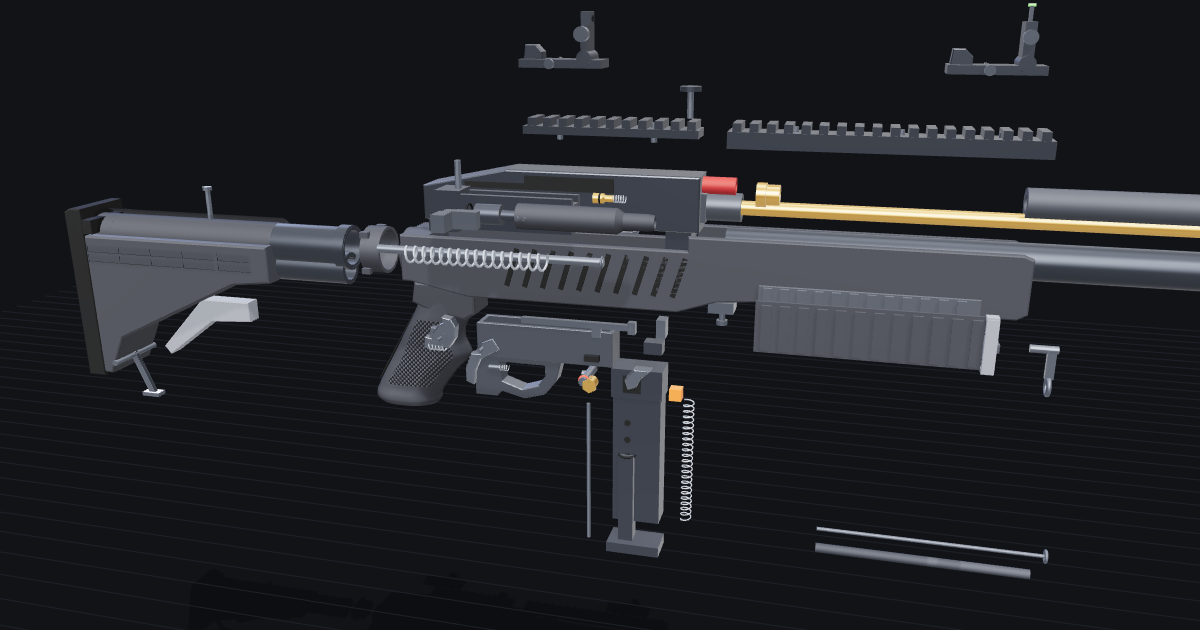
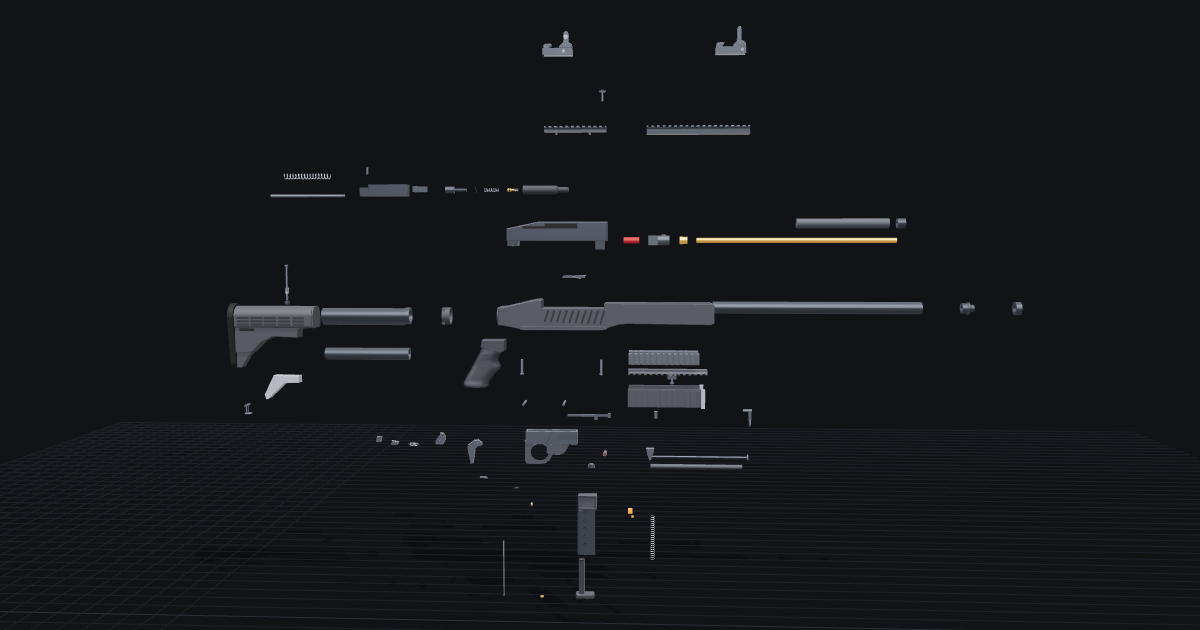
kc02: staged field-strip explode, trigger slider, planned layout
The explode slider now follows the Ruger 10/22 field strip: mag out, rear
stock off the tube, tube and end plate unscrewed, grip off, receiver screws
out, barrelled action lifted from the stock, then the trigger group, bolt
group and barrel come out before each group spreads into its parts.

The bolt train now lays out in one row above the receiver, the bore parts in
a row beside it, and the rails and sights in rows above that. A trigger
slider fires one shot: trigger, hammer, valve knocker, bolt blowback with the
cylinder lagging, recoil spring compression and the hammer recocking.

diff --git a/kc02/index.html b/kc02/index.html
@@ -138,6 +138,8 @@
   <label><span>Auto-rotate</span><input id="spin" type="checkbox"></label>
   <label>Stock position <span id="spv">1</span></label>
   <input id="stockpos" type="range" min="1" max="5" step="1" value="1">
+  <label>Trigger <span id="tpv">released</span></label>
+  <input id="trigpos" type="range" min="0" max="1" step="0.01" value="0">
   <label><span>Orthographic (O)</span><input id="ortho" type="checkbox"></label>
   <div class="row">
     <button id="bReset">Reset view</button>
@@ -600,11 +602,11 @@ part('railGuard', 'Rail guards + springs', 'sgt', ['102', '101'], [0, -150, 0],
    ...[1, -1].flatMap(sd => [[bx(219, 226, -27, 5, -2, 2).translate(0, 0, sd * (STOCK_Z + 2.5 + 10.5)), 'lever'],
      [bx(219, 226, 3, 6, -3.5, 3.5).translate(0, 0, sd * (STOCK_Z + 2.5 + 8)), 'lever'], [bx(219, 226, -28, -25, -3.5, 3.5).translate(0, 0, sd * (STOCK_Z + 2.5 + 8)), 'lever']])]);
 
-part('rail1', 'Rail 1 + screws', 'sgt', ['4', '5'], [70, 250, 0],
+part('rail1', 'Rail 1 + screws', 'sgt', ['4', '5'], [70, 300, 0],
   'Front top rail, screwed to the top of the outer barrel with three rail 1 screws #5. Carries the front sight.',
   [[picatinny(RAIL1.x0, RAIL1.x1, 'up', RAIL1.off, { riser: 5.7, riserW: 10.5 }), 'alu'], ...[90, 150, 205].map(x => [cyl(2, 12, 'y', x, 13, 0, 12), 'steel'])]);
 
-part('rail2', 'Rail 2 + screws', 'sgt', ['20', '19'], [0, 250, 0],
+part('rail2', 'Rail 2 + screws', 'sgt', ['20', '19'], [0, 300, 0],
   'Rear top rail on the receiver, fixed with rail 2 screws #19. The hop-up (trajectory) adjust dial sits in its front end. Scope mounts here.',
   [[picatinny(RAIL2.x0, RAIL2.x1, 'up', RAIL2.off, { riser: 0.7, riserW: 10.5 }), 'alu'], ...[-40, 20].map(x => [cyl(2, 12, 'y', x, 13, 0, 12), 'steel'])]);
 
@@ -653,15 +655,15 @@ function flipSight(kind, rail, xa, xb, xh) {
   return out;
 }
 
-part('frontSight', 'Front sight assembly', 'sgt', ['160', '161', '162', '163', '164', '165', '166', '168', '169', '170', '171', '172', '173', '174', '175'], [70, 390, 0],
+part('frontSight', 'Front sight assembly', 'sgt', ['160', '161', '162', '163', '164', '165', '166', '168', '169', '170', '171', '172', '173', '174', '175'], [70, 430, 0],
   'Flip-up front sight in the MBUS pattern. Base #160 clamps to rail 1 with socket head screw #170 and nut #171 in a recoil groove. Upright #162 swings on pin #174 with torsion spring #161; fixer latch #172 on pin #175 with spring #173 holds it down when folded. Post #168 carries a fiber optic #169 and screws through elevation dial #166, held by detent #163 to #165. Manual: turn the dial to raise the post when impact is high, lower it when impact is low.',
   flipSight('front', RAIL1, 171, 223, 212));
 
-part('rearSight', 'Rear sight assembly', 'sgt', ['176', '177', '178', '179', '180', '181', '182', '183', '184', '185'], [0, 390, 0],
+part('rearSight', 'Rear sight assembly', 'sgt', ['176', '177', '178', '179', '180', '181', '182', '183', '184', '185'], [0, 430, 0],
   'Flip-up rear aperture in the MBUS pattern. Base #176 clamps to rail 2 with socket head screw #170 and nut #171. Upright #178 swings on pin #185 with torsion spring #177. Aperture #179 rides on windage adjust screw #180 (knob on the right), held by sleeve #181 and E-ring #182, with detent #183/#184. Fixer latch #172/#173 at the back. Manual: turn the screw anticlockwise when impact is right, clockwise when impact is left.',
   flipSight('rear', RAIL2, -63, -11, -22));
 
-part('hopDial', 'Trajectory adjust dial + detent', 'sgt', ['18', '21', '22'], [0, 330, 0],
+part('hopDial', 'Trajectory adjust dial + detent', 'sgt', ['18', '21', '22'], [0, 360, 0],
   'Hop-up adjuster, called the trajectory adjust dial in the manual. Sits in the front of rail 2 with a detent #21 and spring #22: 36 clicks per turn, about 20 microns per click (Rogueworx). Manual: rotating it moves the impact point up or down. Forum reports say the stock hop arm can be too short to reach the bucking.',
   [[cyl(6.5, 3, 'y', 42, 23.5, 0, 24), 'dark'], [cyl(2, 16, 'y', 42, 14, 0, 12), 'steel']]);
 
@@ -672,12 +674,12 @@ part('receiver', 'Receiver', 'rcv', ['26'], [0, 140, 0],
    [bx(-60, -2, 1, 10, 12.5, 13.3), 'black'], [bx(-100, -60, 1, 5, 12.5, 13.3), 'black'],
    [bx(30, 46, -36, -20, -9, 9), 'dark'], [bx(-128, -108, -30, -20, -9, 9), 'dark'], [cyl(5, 20, 'z', -118, -26, 0, 16), 'dark']], { shell: true });
 
-part('rcvScrews', 'Receiver screws + spring washers', 'rcv', ['23', '32', '136'], [0, 60, -180],
+part('rcvScrews', 'Receiver screws + spring washers', 'rcv', ['23', '32', '136'], [0, -80, 0],
   'Receiver screw (rear) #23 and (front) #32 with spring washers #136 fix the receiver into the front stock from below.',
   [[cyl(2.2, 26, 'y', -104, -28, 0, 12), 'steel'], [cyl(3.5, 2, 'y', -104, -42, 0, 16), 'steel'],
    [cyl(2.2, 26, 'y', 40, -28, 0, 12), 'steel'], [cyl(3.5, 2, 'y', 40, -42, 0, 16), 'steel']]);
 
-part('crossPins', 'Receiver cross pins', 'rcv', ['27', '29'], [0, -40, -200],
+part('crossPins', 'Receiver cross pins', 'rcv', ['27', '29'], [0, -135, 60],
   'Two cross pins hold the trigger guard assembly in the receiver. Push both out to drop the trigger group.',
   [[cyl(2, 2 * STOCK_Z + 6, 'z', -22, -30, 0), 'steel'], [cyl(2, 2 * STOCK_Z + 6, 'z', -92, -30, 0), 'steel']]);
 
@@ -690,45 +692,45 @@ part('barrelRetainer', 'Barrel retainer + screw', 'bar', ['25', '24'], [130, -11
   'Barrel retainer (Ruger V-block style) and screw. Booligan: the factory screws are short and strip, swap in longer ones.',
   [[bx(30, 46, -19, -12, -9, 9), 'steel'], [cyl(2, 14, 'y', 38, -19, 0, 12), 'steel'], [cyl(3.6, 3, 'y', 38, -27, 0, 16), 'steel']]);
 
-part('bolt', 'Bolt', 'rcv', ['46'], [0, 110, 200],
+part('bolt', 'Bolt', 'rcv', ['46'], [-290, 210, 0],
   'Reciprocating bolt carrier, about 80g stock (Rogueworx). Holds the piston (#44, fixed by piston pin #45) and rides on the guide rod. A cam on its underside releases the hammer lock, timed to the carrier length. Aftermarket: Rogueworx V14 aluminium (40g) and stainless (120g), RGW aluminium.',
   [[bx(-104, -18, -11, -3, -9.5, 9.5), 'dark'], [bx(-88, -18, -3, 10, 5.5, 9.5), 'dark'], [bx(-88, -18, -3, 10, -9.5, -5.5), 'dark'],
    [bx(-104, -88, -3, 4.5, -9.5, 9.5), 'dark'], [bx(-30, -18, -3, 6, -5.5, 5.5), 'dark']]);
 
-part('boltPin', 'Bolt pin', 'rcv', ['47'], [0, 190, 200],
+part('boltPin', 'Bolt pin', 'rcv', ['47'], [-290, 245, 0],
   'Pin through the bolt. Evike sells it as part #47 (P-GR-6802-47).',
   [[cyl(2, 12, 'y', -92, 0, 0, 12), 'steel']]);
 
-part('boltHandle', 'Bolt handle', 'rcv', ['33'], [0, 110, 330],
+part('boltHandle', 'Bolt handle', 'rcv', ['33'], [-250, 205, 30],
   'Charging handle on the right. Manual: pull the handle back to load. It reciprocates with every shot. Known weak point: stock handles snap at the neck (Rogueworx Talon is made to fix this).',
   [[bx(-30, -18, 0, 7, 9.5, 20), 'steel'], [bx(-32, -12, -1, 9, 20, 26), 'steel'], [bx(-34, -26, -1, 9, 26, 38), 'steel']]);
 
-part('cylinder', 'Cylinder (loading nozzle) + pin', 'rcv', ['37', '38'], [80, 110, 270],
+part('cylinder', 'Cylinder (loading nozzle) + pin', 'rcv', ['37', '38'], [-34, 210, 0],
   'Floating cylinder (the loading nozzle), plastic on the stock gun. Its rear bore slides over the piston head (the 10.5mm O-ring spec puts the bore near 13.5mm), the front is the loading tube, with cylinder pin #38 retaining the return spring. Pushes a BB into the rubber chamber and seals gas behind it. Stock cylinders are known to crack; the Rogueworx Genesis kit replaces it with a 7075 aluminium cylinder-nozzle. Evike lists the OEM part as Noz-KJW-P-GR-6802-37.',
   [[latheX([[6.4, -66], [7.6, -66], [7.6, -6], [5, -2], [5, 12], [4.4, 16], [3.2, 16], [3.2, -8], [6.4, -8], [6.4, -66]], 32), 'poly'],
    [cyl(1.2, 18, 'z', -60, 0, 0, 8), 'steel']]);
 
-part('cylValve', 'Cylinder valve + spring, O-ring', 'rcv', ['40', '39', '41'], [60, 170, 270],
+part('cylValve', 'Cylinder valve + spring, O-ring', 'rcv', ['40', '39', '41'], [-112, 210, 0],
   'Valve inside the cylinder (#40) with valve spring #39 and O-ring #41. Routes gas forward to the BB, then back to the piston. The Rogueworx Apollo NPAS valve replaces #39/#40 for power adjustment (about 0.6 to 2.5 J).',
   [[latheX([[0, -16], [3, -16], [3, -10], [2, -9], [2, -4], [0, -4]], 16), 'brass'], [spring(2, 0.4, 7, 5, 'x', -4, 0, 0), 'spring'], [torus(2.8, 0.5, 'x', -12, 0, 0), 'black']]);
 
-part('cylSpring', 'Cylinder spring', 'rcv', ['42'], [130, 110, 270],
+part('cylSpring', 'Cylinder spring', 'rcv', ['42'], [-126, 210, 0],
   'Returns the cylinder forward after each shot.',
   [[spring(3.2, 0.45, 26, 8, 'x', -44, 0, 0), 'spring']]);
 
-part('piston', 'Piston + piston pin', 'rcv', ['44', '45'], [-60, 110, 270],
+part('piston', 'Piston + piston pin', 'rcv', ['44', '45'], [-178, 210, 0],
   'Gas piston fixed in the bolt by piston pin #45, about 22g stock. Gas from the mag pushes the cylinder and bolt back over it. Rogueworx pistons use two O-rings instead of one. Evike lists the piston as parts #44/#45.',
   [[latheX([[0, -62], [6.25, -62], [6.25, -46], [3, -46], [3, -24], [0, -24]], 28), 'dark'], [cyl(1.2, 18, 'z', -34, 0, 0, 8), 'steel']]);
 
-part('pistonOring', 'Piston O-ring', 'rcv', ['43'], [-120, 110, 270],
+part('pistonOring', 'Piston O-ring', 'rcv', ['43'], [-131, 210, 0],
   'Seal on the piston head (Evike #43). Rogueworx gives the O-ring size as 10.5mm ID by 1.5mm cross-section. Common wear item when the bolt short-strokes.',
   [[torus(5.68, 0.71, 'x', -54, 0, 0), 'black']]);
 
-part('guideRod', 'Guide rod + E-ring', 'rcv', ['35', '36'], [0, 60, 400],
+part('guideRod', 'Guide rod + E-ring', 'rcv', ['35', '36'], [-434, 207, 0],
   'Guide rod #35 retained by E-ring #36. The bolt and recoil spring ride on it. Evike part #35.',
   [[cyl(2.5, 136, 'x', -58, -7, 0, 12), 'steel'], [torus(2.8, 0.7, 'x', 9, -7, 0), 'steel']]);
 
-part('recoilSpring', 'Recoil spring', 'rcv', ['34'], [0, 60, 440],
+part('recoilSpring', 'Recoil spring', 'rcv', ['34'], [-430, 242, 0],
   'Returns the bolt forward after blowback.',
   [[spring(4.5, 0.8, 84, 16, 'x', -104, -7, 0), 'spring']]);
 
@@ -746,28 +748,28 @@ part('muzzle', 'Muzzle (thread cap)', 'bar', ['1'], [380, 0, 0],
   'Cap over the muzzle thread; the slightly fatter ring at the very front in the render. Open in the middle so the BB exits (9mm bore hole here).',
   [[latheX([[7, 390], [BORE_R + 0.6, 390], [BORE_R + 0.6, 400], [4.5, 400], [4.5, 397], [7, 397], [7, 390]], 32), 'alu']]);
 
-part('chamber', 'Chamber (hop-up unit)', 'bar', ['11'], [110, 110, 0],
+part('chamber', 'Chamber (hop-up unit)', 'bar', ['11'], [110, 120, 0],
   'Proprietary hop-up chamber at the rear of the barrel, in the front of the receiver. Slides out once the outer barrel and rail are off. KJW later revised it ("Gen2" hop, per A+ Airsoft bucking listings). Aftermarket: Rogueworx Genesis V5 hop unit (6061 aluminium) for VSR/GBB barrels and buckings.',
   [[tube(6, 8.8, 30, 52, 32), 'zinc'], [bx(14, 31, -8.8, 8.8, -8.8, 8.8), 'zinc'], [bx(18, 28, 8.8, 10, -3, 3), 'black'],
    [bx(38, 46, 7, 11, -3, 3), 'zinc']]);
 
-part('rubberChamber', 'Rubber chamber (bucking)', 'bar', ['10'], [110, 170, 0],
+part('rubberChamber', 'Rubber chamber (bucking)', 'bar', ['10'], [60, 120, 0],
   'Hop-up bucking. A+ Airsoft sells KC-02 buckings for the original and the "Gen2 new hop system" chambers, described as GBB/VSR inner-barrel pattern. With the Genesis kit any VSR/GBB bucking fits (50 to 70 degree advised).',
   [[tube(3, 5.5, 20, 48, 28), 'rubber']]);
 
-part('barrelNut', 'Inner barrel nut', 'bar', ['9'], [150, 150, 0],
+part('barrelNut', 'Inner barrel nut', 'bar', ['9'], [128, 120, 0],
   'Locks the inner barrel into the chamber.',
   [[latheX([[4.6, 52], [8, 52], [8, 58], [4.6, 58], [4.6, 52]], 6), 'brass'], [tube(4.6, 6.5, 58, 66, 20), 'brass']]);
 
-part('innerBarrel', 'Inner barrel', 'bar', ['8'], [170, 110, 0],
+part('innerBarrel', 'Inner barrel', 'bar', ['8'], [186, 120, 0],
   'Smoothbore inner barrel. Stock length is not reliably published (sources disagree); Booligan says it stops short of the muzzle, so the drawn length is a guess. Full-length replacements: 380mm (Maple Leaf) for the standard barrel, 510mm with a long outer barrel. The Genesis kit makes VSR barrels drop in.',
   [[tube(3, 4.5, 24, 376, 24), 'brass']]);
 
-part('barrelSleeve', 'Inner barrel sleeve', 'bar', ['6'], [170, 160, 0],
+part('barrelSleeve', 'Inner barrel sleeve', 'bar', ['6'], [186, 150, 0],
   'Sleeve that centers the front half of the inner barrel in the outer barrel. Aftermarket option: Rogueworx nylon barrel spacers with inner and outer O-rings (a design that started with Tim Stalford).',
   [[tube(4.6, 8.8, 200, 362, 24), 'poly2']]);
 
-part('barrelConn', 'Inner barrel connection', 'bar', ['7'], [240, 160, 0],
+part('barrelConn', 'Inner barrel connection', 'bar', ['7'], [200, 150, 0],
   'Front bushing that joins the inner barrel to the adaptor.',
   [[tube(4.6, 8.8, 362, 376, 24), 'alu']]);
 
@@ -978,6 +980,7 @@ applyFilter();
 const exSlider = document.getElementById('explode');
 let exTarget = 0, exCur = 0;
 exSlider.oninput = () => exTarget = +exSlider.value;
+const EXP_TGT = new THREE.Vector3(30, 10, 0), EXP_POS = fit(new THREE.Vector3(90, 200, 2350), EXP_TGT);
 let camTween = null;
 document.getElementById('bReset').onclick = () => { camTween = { pos: HOME_POS.clone(), tgt: HOME_TGT.clone() }; };
 const spin = document.getElementById('spin');
@@ -1039,6 +1042,8 @@ function showOverview() {
     <li>Fill the mag vertical for about 5 seconds. Bolt locks back on empty.</li>
     <li>Front sight dial sets elevation, rear sight screw sets windage, rail 2 dial sets hop.</li>
     <li>V1 vs V2 (both KJW manuals): same receiver, bolt, barrel, trigger group and stock. V1 had different sights (fixed front base #15, rear sight with windage/elevation knobs #75 to #94) and a two-piece 22-round mag (#123/#128). V2 has the flip-up sights and the long mag, plus a CO2 option.</li>
+    <li>The Trigger slider in the View panel fires one shot: the trigger comes back and the sear lets the hammer go, the hammer falls on the valve knocker, which kicks the mag's ex-valve open, the gas blows the bolt back (the cylinder follows once the bolt has moved a few mm) and the bolt rolls the hammer back onto the sear, then the recoil spring returns the bolt.</li>
+    <li>The Explode slider follows the Ruger 10/22 field strip: mag out, rear stock off the tube, tube and end plate unscrewed, grip off, receiver screws out and the barrelled action lifted from the stock. Then the cross pins push out and the trigger group drops, the bolt handle and bolt group come out of the bottom of the receiver, and the barrel slides forward with its rail, front sight and hop-up, before every group spreads into its parts.</li>
     <li>Scale: traced from the manual render, then scaled so the barrel is 0.920 in and the gun measures 780/865mm collapsed/extended; both anchors agree within 1%. The render itself shows the stock at position 3.</li>
     <li>Generic vs specific: the rear stock, tube and grip are generic M4 parts. The front stock, receiver and internals are KC-02 specific. The barrel copies the real 10/22 .920 in bull profile.</li>
   </ul>
@@ -1243,15 +1248,81 @@ const STOCK = { pos: 1, cur: (RENDER_POS - 1) * STOCK_STEP };
 const showLen = () => { const p = +stockCtl.value; STOCK.pos = p; spv.textContent = `${p} (${Math.round((778 - (RENDER_POS - p) * STOCK_STEP) * S)} mm overall)`; };
 stockCtl.oninput = showLen; showLen();
 let stockOff = STOCK.cur;
+const trigCtl = document.getElementById('trigpos'), tpv = document.getElementById('tpv');
+const TRIG = { pos: 0 };
+const showTrig = () => { TRIG.pos = +trigCtl.value; tpv.textContent = TRIG.pos === 0 ? 'released' : TRIG.pos === 1 ? 'fired' : `${Math.round(TRIG.pos * 100)}%`; };
+trigCtl.oninput = showTrig; showTrig();
+let trigCur = 0;
+// Staged explode, in the Ruger 10/22 field-strip order: the magazine drops, the rear stock slides off the tube, the
+// tube and end plate unscrew from the front stock, the grip drops, the front swivel and the two receiver screws come
+// out, and the barrelled action lifts out of the stock. Then the cross pins push out and the trigger group drops, the
+// bolt handle pulls out and the bolt group drops out of the bottom of the receiver, the barrel retainer comes off and
+// the barrel slides forward with its rail, front sight and the hop-up inside it. Each group then spreads into its
+// parts, and last the receiver's bolt stop and the forend rails come off. Each part's moves add up to its explode
+// vector, so at 100% every part sits where it always did.
+const stageT = (t, a, b) => { const u = THREE.MathUtils.clamp((t - a) / (b - a), 0, 1); return u * u * (3 - 2 * u); };
+const V = (x, y, z) => new THREE.Vector3(x, y, z);
+const SPREAD = [0.72, 0.88];
+const LIFT = [V(0, 140, 0), 0.36, 0.45];
+const STOCK_IDS = new Set(['rearStock', 'stockLock', 'releaseLever', 'stockSwivel']);
+const BOLT_IDS = new Set(['bolt', 'boltPin', 'boltHandle', 'cylinder', 'cylValve', 'cylSpring', 'piston', 'pistonOring', 'guideRod', 'recoilSpring']);
+const BARREL_IDS = new Set(['outerBarrel', 'adaptor', 'muzzle', 'rail1', 'frontSight', 'chamber', 'rubberChamber', 'barrelNut', 'innerBarrel', 'barrelSleeve', 'barrelConn']);
+const ON_STOCK = new Set(['frontStock', 'rail3', 'railGuard', 'rcvScrews', 'endPlate', 'grip', 'stockExt', 'innerTube', 'extCap', 'frontSwivel', ...STOCK_IDS]);
+for (const p of parts) {
+  const ex = p.userData.explode, cat = p.userData.cat, id = p.userData.id;
+  // the listed moves, then whatever is left of the explode vector in the spread (or at the very end)
+  const seq = (moves, last = SPREAD) => [...moves, [moves.reduce((a, [v]) => a.sub(v), ex.clone()), ...last]];
+  const action = ['rcv', 'bar', 'trg', 'sgt'].includes(cat) && !ON_STOCK.has(id);
+  p.userData.stages = cat === 'mag' ? seq([[V(0, -60, 0), 0, 0.08]])
+    : STOCK_IDS.has(id) ? seq([[V(-120, 0, 0), 0.07, 0.15]])
+    : id === 'extCap' ? seq([[V(-40, 0, 0), 0.13, 0.18], [V(-90, 0, 0), 0.17, 0.24]])
+    : id === 'stockExt' || id === 'innerTube' ? seq([[V(-90, 0, 0), 0.17, 0.24]])
+    : id === 'endPlate' ? seq([[V(-60, 0, 0), 0.22, 0.27]])
+    : id === 'grip' ? seq([[V(0, -50, 0), 0.25, 0.31]])
+    : id === 'frontSwivel' ? seq([[V(30, 0, 0), 0.29, 0.33]])
+    : id === 'rcvScrews' ? seq([[V(0, -40, 0), 0.32, 0.36]])
+    : id === 'crossPins' ? seq([LIFT, [V(0, 0, 50), 0.45, 0.49]])
+    : cat === 'trg' ? seq([LIFT, [V(0, -40, 60), 0.48, 0.55]])
+    : id === 'boltHandle' ? seq([LIFT, [V(0, 0, 35), 0.54, 0.57], [V(0, -45, 0), 0.56, 0.61], [V(0, 0, 75), 0.6, 0.64]])
+    : BOLT_IDS.has(id) ? seq([LIFT, [V(0, -45, 0), 0.56, 0.61], [V(0, 0, 75), 0.6, 0.64]])
+    : id === 'barrelRetainer' ? seq([LIFT, [V(0, -30, 0), 0.6, 0.64]])
+    : BARREL_IDS.has(id) ? seq([LIFT, [V(230, 0, 0), 0.63, 0.71]])
+    : id === 'boltStop' ? seq([LIFT], [0.88, 1])
+    : action ? seq([LIFT])
+    : seq([], [0.88, 1]);
+}
+// turn a part about a pivot (x, y) in the side plane
+const turnAbout = (p, [px, py], a) => {
+  p.rotation.z = a;
+  p.position.x += px - (px * Math.cos(a) - py * Math.sin(a));
+  p.position.y += py - (px * Math.sin(a) + py * Math.cos(a));
+};
+const deg = Math.PI / 180, ramp = stageT;
+const TRG_PV = [-69, -31], HAMMER_PV = [-88, -28], BOLT_STROKE = 22, SPRING_BACK = -104, SPRING_LEN = 84;
 renderer.setAnimationLoop(() => {
-  exCur += (exTarget - exCur) * 0.12;
-  if (Math.abs(exTarget - exCur) < 1e-4) exCur = exTarget;
+  // steady rate rather than an ease-out, so each stage of the strip gets its share of the time
+  exCur += THREE.MathUtils.clamp(exTarget - exCur, -0.015, 0.015);
   exv.textContent = Math.round(exCur * 100) + '%';
   stockOff += ((RENDER_POS - STOCK.pos) * STOCK_STEP - stockOff) * 0.15;
-  const e = exCur * exCur * (3 - 2 * exCur);
+  trigCur += (TRIG.pos - trigCur) * 0.2;
+  // the trigger comes back over the first fifth and the sear lets the hammer go; the hammer falls forward onto the
+  // valve knocker, which kicks the mag's ex-valve; the gas blows the bolt back (the cylinder follows once the bolt has
+  // taken up its slack), the bolt rolls the hammer back past the sear, and the recoil spring returns it
+  const t = trigCur, tA = -10 * deg * ramp(t, 0, 0.2);
+  const hA = -20 * deg * ramp(t, 0.2, 0.27) + 26 * deg * ramp(t, 0.34, 0.5) - 6 * deg * ramp(t, 0.62, 0.72);
+  const knock = 2.5 * (ramp(t, 0.26, 0.3) - ramp(t, 0.3, 0.4));
+  const boltBack = BOLT_STROKE * (ramp(t, 0.3, 0.48) - ramp(t, 0.55, 0.8)), cylBack = Math.max(0, boltBack - 5);
   for (const p of parts) {
-    p.position.copy(p.userData.explode).multiplyScalar(e);
+    p.position.set(0, 0, 0); p.rotation.z = 0; p.scale.set(1, 1, 1);
+    for (const [v, a, b] of p.userData.stages) p.position.addScaledVector(v, stageT(exCur, a, b));
     if (p.userData.slide) p.position.x += stockOff;
+    const id = p.userData.id;
+    if (id === 'trigger') turnAbout(p, TRG_PV, tA);
+    if (id === 'hammer') turnAbout(p, HAMMER_PV, hA);
+    if (id === 'valveKnocker') p.position.x += knock;
+    if (['bolt', 'boltPin', 'boltHandle', 'piston', 'pistonOring', 'guideRod'].includes(id)) p.position.x -= boltBack;
+    if (id === 'cylinder' || id === 'cylValve' || id === 'cylSpring') p.position.x -= cylBack;
+    if (id === 'recoilSpring') { const s = (SPRING_LEN - boltBack) / SPRING_LEN; p.scale.x = s; p.position.x += SPRING_BACK * (1 - s); }
     p.userData.label.visible = p.visible && (p === selected || (labelsCb.checked && exCur > 0.25));
   }
   if (camTween) {   // ease azimuth, elevation and distance together, so the camera swings round the target (never
@@ -1276,9 +1347,9 @@ renderer.setAnimationLoop(() => {
   cubeR.render(cubeScene, cubeCam);
 });
 
-const fromHash = () => { if (location.hash.includes('exploded')) { exTarget = 1; exSlider.value = 1; labelsCb.checked = true; } };
+const fromHash = () => { if (location.hash.includes('exploded')) { exTarget = 1; exSlider.value = 1; labelsCb.checked = true; camTween = { pos: EXP_POS.clone(), tgt: EXP_TGT.clone() }; } };
 fromHash(); addEventListener('hashchange', fromHash);
-window.__kc02 = { parts, select, showList, THREE, scene, renderer, camera, controls, floor, grid, labelRenderer, root, STOCK, STOCK_STEP, RENDER_POS };
+window.__kc02 = { TRIG, parts, select, showList, THREE, scene, renderer, camera, controls, floor, grid, labelRenderer, root, STOCK, STOCK_STEP, RENDER_POS };
 </script>
 </body>
 </html>
